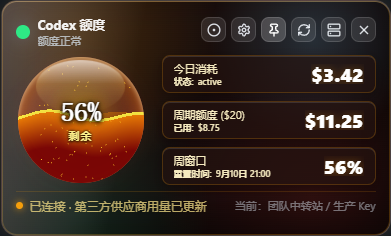
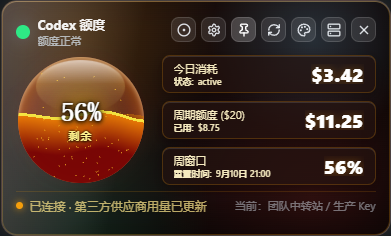
docs[feature/third-party-usage-monitoring]: 整理 README 展示并补齐主题悬浮球截图
[
1.聚焦顶部操作栏和 800×500 即时生效设置页等本仓库二开功能
2.按功能页面、主题和悬浮球分组排列 README 截图
3.补充全息与烈焰两种主题的悬浮球展示并移除旧单图
]

diff --git a/README.en.md b/README.en.md
@@ -21,7 +21,7 @@ The upstream instructions that still apply—installation, Codex CLI path select
 
 ## Features added by this fork
 
-Compared with the upstream project, this fork mainly adds and maintains:
+Compared with the upstream project, this fork focuses on these additions:
 
 - **Third-party provider adapter**: reads today cost, cycle quota, and weekly-window data from a compatible `sub2api` usage endpoint.
 - **Multi-site management**: configure multiple provider sites and normalize their `/v1/usage` request URL.
@@ -29,28 +29,41 @@ Compared with the upstream project, this fork mainly adds and maintains:
 - **Connection testing**: validate a provider before saving or switching, with clear success, authentication, and API error feedback.
 - **Source switching**: switch between the official Codex CLI and a provider, with the active site and key shown in the main panel.
 - **Provider-specific quota cards**: render “today cost / cycle quota / weekly window” without applying the official CLI estimate logic.
+- **Top action bar**: reorganizes the main-panel shortcuts for floating ball, settings, pin, refresh, theme, source, and hide-to-tray actions.
+- **Settings interaction**: expands the settings window to `800 × 500`; removes Cancel/Save buttons so selections, toggles, and source changes apply immediately, while text inputs save on change or blur.
 
-The upstream panel, floating ball, edge docking, themes, refresh, and desktop settings remain available but are not repeated here; installation and basic usage are documented below.
+The upstream panel, floating ball, edge docking, themes, refresh, and desktop settings remain available but are not repeated here; installation and basic usage are documented below. Screenshots are grouped by fork feature, theme, and floating-ball mode for quick comparison.
 
 ## Screenshots
 
-### Third-party usage monitoring (Holo 3D Core)
+### Fork feature pages
 
-![Third-party usage dashboard](docs/assets/third-party-usage-dashboard.png)
+<table>
+  <tr>
+    <td width="50%"><strong>Provider and key management</strong><br><img src="docs/assets/provider-settings.png" alt="Provider and key management page" width="100%"></td>
+    <td width="50%"><strong>Settings (800 × 500, changes apply immediately)</strong><br><img src="docs/assets/settings-expanded.png" alt="Expanded settings page" width="100%"></td>
+  </tr>
+</table>
 
-### Provider and key management
+### Usage panels in both themes
 
-![Provider settings](docs/assets/provider-settings.png)
+<table>
+  <tr>
+    <td width="50%"><strong>Holo 3D Core</strong><br><img src="docs/assets/third-party-usage-dashboard.png" alt="Third-party usage panel in Holo 3D Core theme" width="100%"></td>
+    <td width="50%"><strong>Pyro Core</strong><br><img src="docs/assets/theme-pyro.png" alt="Third-party usage panel in Pyro Core theme" width="100%"></td>
+  </tr>
+</table>
 
-### Pyro Core theme
+### Floating balls in both themes
 
-![Pyro Core theme](docs/assets/theme-pyro.png)
+<table>
+  <tr>
+    <td width="50%"><strong>Holo 3D Core floating ball</strong><br><img src="docs/assets/floating-ball-holo.png" alt="Holo 3D Core floating ball" width="100%"></td>
+    <td width="50%"><strong>Pyro Core floating ball</strong><br><img src="docs/assets/floating-ball-pyro.png" alt="Pyro Core floating ball" width="100%"></td>
+  </tr>
+</table>
 
-### Floating-ball mode
-
-![Floating-ball mode](docs/assets/floating-ball.png)
-
-These images are rendered from the current branch’s frontend components and styles. Keys are masked; never place real credentials in screenshots, README files, or Issues.
+These images are rendered from the current branch’s frontend components and styles with sample data. Keys are masked; never place real credentials in screenshots, README files, or Issues.
 
 ## Usage
 
